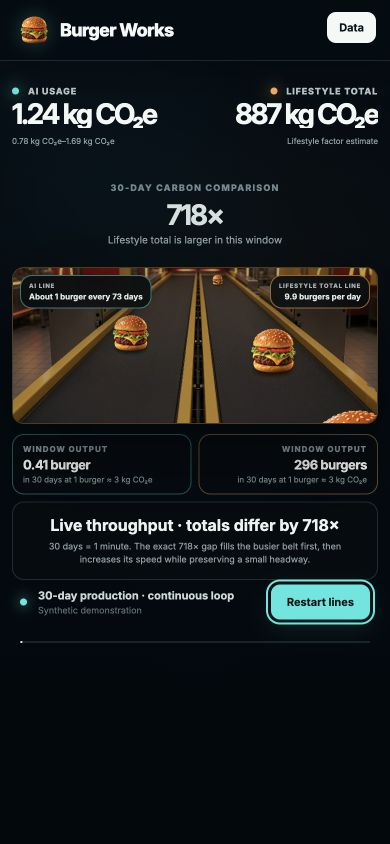
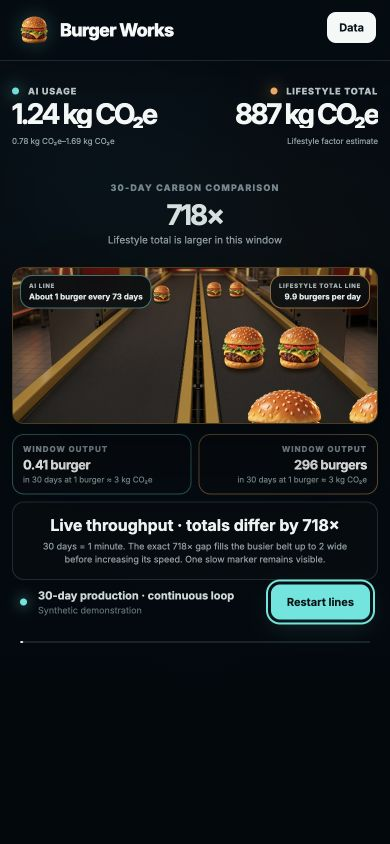
feat: pack conveyor burgers into aligned rows

Changed region(s): [[0.5231, 0.3081, 0.9846, 0.5237], [0.1538, 0.6161, 0.8923, 0.6777], [0.2769, 0.3389, 0.4308, 0.4313]]

diff --git a/src/main.ts b/src/main.ts
@@ -111,7 +111,7 @@ app.innerHTML = `
 
       <section class="output-strip" aria-label="Production totals and visual explanation">
         <article class="output-card output-card--left"><span>Window output</span><strong id="left-unit-count">—</strong><small id="left-unit-name">burger equivalent</small></article>
-        <div class="output-story"><strong id="stage-status" aria-live="polite">Live production · rate loop ready</strong><p id="motion-note">One comparison window plays in one minute. Output fills each belt first, then increases its speed.</p></div>
+        <div class="output-story"><strong id="stage-status" aria-live="polite">Live production · rate loop ready</strong><p id="motion-note">One comparison window plays in one minute. Output fills rows across each belt before increasing its speed.</p></div>
         <article class="output-card output-card--right"><span>Window output</span><strong id="right-unit-count">—</strong><small id="right-unit-name">burger equivalent</small></article>
       </section>
 
@@ -183,7 +183,7 @@ app.innerHTML = `
       <div><dt>AI carbon</dt><dd>Estimated Wh × selected grid carbon intensity. Input tokens are displayed but not modeled by the source data.</dd></div>
       <div><dt>Lifestyle</dt><dd>Diet, gasoline driving, flights, and home energy are normalized to the same comparison window.</dd></div>
       <div><dt>Burger unit</dt><dd>1 burger ≈ ${BURGER_KG_CO2E} kg CO₂e. This is a communication equivalence, not a claim that every burger is identical.</dd></div>
-      <div><dt>Visual scale</dt><dd>One comparison window plays in one minute. Exact output sets launch cadence; each belt stays at the one-minute base speed until safe burger density is full, then accelerates only as much as needed. A planar projective transform makes distant motion slower and foreground motion faster.</dd></div>
+      <div><dt>Visual scale</dt><dd>One comparison window plays in one minute. Exact output fills perspective-aware rows—up to three burgers across on desktop—before belt speed rises. A persistent slow marker keeps sub-one-burger output visible; numeric totals remain authoritative. A planar projective transform makes distant motion slower and foreground motion faster.</dd></div>
       <div><dt>Excluded</dt><dd>Water, training, image generation, retries, and regional goods/services baselines.</dd></div>
     </dl>
     <a class="source-link" href="${MASLEY_SOURCE.url}" target="_blank" rel="noreferrer">Open Masley factor source</a>
@@ -288,6 +288,7 @@ let replayStartedAt = 0;
 let hasPlayedInitialReplay = false;
 
 interface ConveyorBurger {
+  columnOffset: number;
   element: HTMLImageElement;
   side: BeltSide;
   bornAt: number;
@@ -297,6 +298,8 @@ interface ConveyorBurger {
 interface ConveyorLane {
   side: BeltSide;
   accent: 'ai' | 'life';
+  columnCount: number;
+  continuousMarker: boolean;
   intervalMs: number;
   travelDurationMs: number;
   capacity: number;
@@ -309,6 +312,16 @@ let burgerSequence = 0;
 
 function laneCapacityForStage(): number {
   return stage.clientWidth <= 760 ? 3 : MAX_BURGERS_ON_LANE;
+}
+
+function maxColumnsForStage(): number {
+  return stage.clientWidth <= 760 ? 2 : 3;
+}
+
+function columnOffsetForIndex(index: number, columnCount: number): number {
+  if (columnCount <= 1) return 0;
+  if (columnCount === 2) return index % 2 === 0 ? -1 : 1;
+  return [-1, 0, 1][index % 3] ?? 0;
 }
 
 function selectedScenario() {
@@ -455,12 +468,18 @@ function renderComparison(state: AppState): void {
     byId('ratio-description').textContent = `${larger} is larger in this window`;
     byId('stage-status').textContent = `Live throughput · totals differ by ${formatRatio(ratio)}`;
   }
-  const leftTiming = laneMotionTiming(sides.left.kgCo2e / BURGER_KG_CO2E, laneCapacityForStage());
-  const rightTiming = laneMotionTiming(sides.right.kgCo2e / BURGER_KG_CO2E, laneCapacityForStage());
+  const laneCapacity = laneCapacityForStage();
+  const maxColumns = maxColumnsForStage();
+  const leftTiming = laneMotionTiming(sides.left.kgCo2e / BURGER_KG_CO2E, laneCapacity, maxColumns);
+  const rightTiming = laneMotionTiming(sides.right.kgCo2e / BURGER_KG_CO2E, laneCapacity, maxColumns);
   if (leftTiming && rightTiming && Number.isFinite(ratio)) {
-    byId('motion-note').textContent = `${state.result.comparisonDays} days = 1 minute. The exact ${formatRatio(ratio)} gap fills the busier belt first, then increases its speed while preserving a small headway.`;
+    const busyTiming = sides.left.kgCo2e >= sides.right.kgCo2e ? leftTiming : rightTiming;
+    const markerNote = leftTiming.continuousMarker || rightTiming.continuousMarker
+      ? ' One slow marker remains visible.'
+      : '';
+    byId('motion-note').textContent = `${state.result.comparisonDays} days = 1 minute. The exact ${formatRatio(ratio)} gap fills the busier belt up to ${busyTiming.columnCount} wide before increasing its speed.${markerNote}`;
   } else {
-    byId('motion-note').textContent = `${state.result.comparisonDays} days = 1 minute. Output fills each belt first, then increases its speed.`;
+    byId('motion-note').textContent = `${state.result.comparisonDays} days = 1 minute. Output fills rows across each belt before increasing its speed.`;
   }
   byId('window-label').textContent = `${state.result.comparisonDays}-day carbon comparison`;
   byId('replay-window').textContent = `${state.result.comparisonDays}-day production · continuous loop`;
@@ -497,6 +516,7 @@ function createBurger(
   accent: 'ai' | 'life',
   bornAt: number,
   travelDurationMs: number,
+  columnOffset: number,
 ): ConveyorBurger {
   const item = document.createElement('img');
   item.className = `stream-item stream-item--${side}`;
@@ -505,7 +525,7 @@ function createBurger(
   item.src = `${ASSET_BASE}/burger.png`;
   item.alt = '';
   flowLayer.append(item);
-  const burger = { element: item, side, bornAt, travelDurationMs };
+  const burger = { columnOffset, element: item, side, bornAt, travelDurationMs };
   conveyorBurgers.push(burger);
   return burger;
 }
@@ -515,8 +535,16 @@ function renderConveyor(now: number, keepRunning = true): void {
     let catchUp = 0;
     while (now >= lane.nextSpawnAt && catchUp < lane.capacity) {
       const activeOnLane = conveyorBurgers.filter((burger) => burger.side === lane.side).length;
-      if (activeOnLane < lane.capacity) {
-        createBurger(lane.side, lane.accent, lane.nextSpawnAt, lane.travelDurationMs);
+      if (activeOnLane <= lane.capacity - lane.columnCount) {
+        for (let column = 0; column < lane.columnCount; column += 1) {
+          createBurger(
+            lane.side,
+            lane.accent,
+            lane.nextSpawnAt,
+            lane.travelDurationMs,
+            columnOffsetForIndex(column, lane.columnCount),
+          );
+        }
       }
       lane.nextSpawnAt += lane.intervalMs;
       catchUp += 1;
@@ -530,7 +558,7 @@ function renderConveyor(now: number, keepRunning = true): void {
       burger.element.remove();
       continue;
     }
-    const pose = projectBeltPose(worldProgress, burger.side);
+    const pose = projectBeltPose(worldProgress, burger.side, burger.columnOffset);
     burger.element.style.left = `${pose.leftPct}%`;
     burger.element.style.top = `${pose.topPct}%`;
     burger.element.style.opacity = String(pose.opacity);
@@ -539,6 +567,12 @@ function renderConveyor(now: number, keepRunning = true): void {
     active.push(burger);
   }
   conveyorBurgers = active;
+
+  for (const lane of conveyorLanes) {
+    if (lane.continuousMarker && !conveyorBurgers.some((burger) => burger.side === lane.side)) {
+      createBurger(lane.side, lane.accent, now, lane.travelDurationMs, 0);
+    }
+  }
 
   const loopProgress = ((now - replayStartedAt) % RATE_LOOP_DURATION_MS) / RATE_LOOP_DURATION_MS;
   timelineFill.style.transform = `scaleX(${loopProgress})`;
@@ -559,24 +593,45 @@ function startReplay(): void {
 
   const schedule = (side: 'left' | 'right', data: SideData) => {
     const laneCapacity = laneCapacityForStage();
-    const timing = laneMotionTiming(data.kgCo2e / BURGER_KG_CO2E, laneCapacity);
+    const timing = laneMotionTiming(
+      data.kgCo2e / BURGER_KG_CO2E,
+      laneCapacity,
+      maxColumnsForStage(),
+    );
     if (!timing) return;
     const duration = timing.travelDurationMs;
-    const interval = timing.intervalMs;
-    const visibleItems = clamp(Math.ceil(duration / interval), 1, laneCapacity);
+    const interval = timing.continuousMarker
+      ? duration
+      : timing.intervalMs * timing.columnCount;
+    const totalCapacity = timing.continuousMarker ? 1 : timing.totalCapacity;
+    const visibleRows = timing.continuousMarker
+      ? 1
+      : clamp(Math.ceil(duration / interval), 1, laneCapacity);
     const seedOffset = Math.min(interval * 0.2, duration * 0.45);
-    for (let index = 0; index < visibleItems; index += 1) {
-      const age = seedOffset + index * interval;
+    for (let row = 0; row < visibleRows; row += 1) {
+      const age = seedOffset + row * interval;
       if (age >= duration) break;
-      createBurger(side, data.className, now - age, duration);
+      for (let column = 0; column < timing.columnCount; column += 1) {
+        createBurger(
+          side,
+          data.className,
+          now - age,
+          duration,
+          columnOffsetForIndex(column, timing.columnCount),
+        );
+      }
     }
     conveyorLanes.push({
       side,
       accent: data.className,
+      columnCount: timing.columnCount,
+      continuousMarker: timing.continuousMarker,
       intervalMs: interval,
       travelDurationMs: duration,
-      capacity: laneCapacity,
-      nextSpawnAt: now + Math.max(16, interval - seedOffset),
+      capacity: totalCapacity,
+      nextSpawnAt: timing.continuousMarker
+        ? Number.POSITIVE_INFINITY
+        : now + Math.max(16, interval - seedOffset),
     });
   };
   schedule('left', sides.left);

diff --git a/src/scene/conveyorPhysics.ts b/src/scene/conveyorPhysics.ts
@@ -23,6 +23,10 @@ const EXIT_RIGHT_X = 94.1565217391;
 const BELT_PLANE_END = 0.8;
 const WINDOW_PLAYBACK_DURATION_MS = 60_000;
 const MIN_TRAVEL_DURATION_MS = 450;
+const HEADWAY_MARGIN = 0.2;
+const FAR_COLUMN_SPREAD = 1.2;
+const NEAR_COLUMN_SPREAD = 12;
+const EXIT_COLUMN_SPREAD = 16;
 
 function clamp01(value: number): number {
   return Math.min(1, Math.max(0, value));
@@ -46,7 +50,11 @@ export function projectWorldProgress(
   return world / (1 + perspective * (1 - world));
 }
 
-export function projectBeltPose(worldProgress: number, side: BeltSide): BeltPose {
+export function projectBeltPose(
+  worldProgress: number,
+  side: BeltSide,
+  columnOffset = 0,
+): BeltPose {
   const world = clamp01(worldProgress);
   const onBelt = world <= BELT_PLANE_END;
   const beltWorld = clamp01(world / BELT_PLANE_END);
@@ -54,9 +62,13 @@ export function projectBeltPose(worldProgress: number, side: BeltSide): BeltPose
   const exitProgress = clamp01((world - BELT_PLANE_END) / (1 - BELT_PLANE_END));
   const nearX = side === 'left' ? NEAR_LEFT_X : NEAR_RIGHT_X;
   const exitX = side === 'left' ? EXIT_LEFT_X : EXIT_RIGHT_X;
-  const leftPct = onBelt
+  const centerLeftPct = onBelt
     ? mix(side === 'left' ? FAR_LEFT_X : FAR_RIGHT_X, nearX, beltDepth)
     : mix(nearX, exitX, exitProgress);
+  const columnSpread = onBelt
+    ? mix(FAR_COLUMN_SPREAD, NEAR_COLUMN_SPREAD, beltDepth)
+    : mix(NEAR_COLUMN_SPREAD, EXIT_COLUMN_SPREAD, exitProgress);
+  const leftPct = centerLeftPct + columnOffset * columnSpread;
   const topPct = onBelt
     ? mix(FAR_CONTACT_Y, NEAR_CONTACT_Y, beltDepth)
     : mix(NEAR_CONTACT_Y, EXIT_CONTACT_Y, exitProgress);
@@ -75,7 +87,10 @@ export function projectBeltPose(worldProgress: number, side: BeltSide): BeltPose
 }
 
 export interface LaneMotionTiming {
+  columnCount: number;
+  continuousMarker: boolean;
   intervalMs: number;
+  totalCapacity: number;
   travelDurationMs: number;
   visualRatePerSecond: number;
 }
@@ -87,17 +102,31 @@ export interface LaneMotionTiming {
  */
 export function laneMotionTiming(
   burgersInWindow: number,
-  laneCapacity: number,
+  rowCapacity: number,
+  maxColumns = 3,
 ): LaneMotionTiming | null {
   if (!Number.isFinite(burgersInWindow) || burgersInWindow < 0.005) return null;
-  const safeCapacity = Math.max(1, laneCapacity);
+  const safeRowCapacity = Math.max(1, rowCapacity);
+  const safeMaxColumns = Math.max(1, Math.min(3, Math.floor(maxColumns)));
+  const columnCount = Math.min(
+    safeMaxColumns,
+    Math.max(1, Math.ceil(burgersInWindow / safeRowCapacity)),
+  );
   const visualRatePerSecond = burgersInWindow / (WINDOW_PLAYBACK_DURATION_MS / 1_000);
   const intervalMs = Math.max(16, Math.round(1_000 / visualRatePerSecond));
-  const headwayDurationMs = intervalMs * Math.max(1, safeCapacity - 0.75);
+  const perColumnIntervalMs = intervalMs * columnCount;
+  const headwayDurationMs = perColumnIntervalMs * Math.max(1, safeRowCapacity - HEADWAY_MARGIN);
   const travelDurationMs = Math.round(Math.max(
     MIN_TRAVEL_DURATION_MS,
     Math.min(WINDOW_PLAYBACK_DURATION_MS, headwayDurationMs),
   ));
 
-  return { intervalMs, travelDurationMs, visualRatePerSecond };
+  return {
+    columnCount,
+    continuousMarker: burgersInWindow < 1,
+    intervalMs,
+    totalCapacity: safeRowCapacity * columnCount,
+    travelDurationMs,
+    visualRatePerSecond,
+  };
 }

diff --git a/src/scene/conveyorPhysics.test.ts b/src/scene/conveyorPhysics.test.ts
@@ -46,6 +46,18 @@ describe('conveyor physics', () => {
     expect(exitSlope).toBeCloseTo(beltSlope, 4);
   });
 
+  it('fans multiple columns out from the same vanishing point', () => {
+    const farInner = projectBeltPose(0, 'right', -1);
+    const farOuter = projectBeltPose(0, 'right', 1);
+    const nearInner = projectBeltPose(0.8, 'right', -1);
+    const nearCenter = projectBeltPose(0.8, 'right', 0);
+    const nearOuter = projectBeltPose(0.8, 'right', 1);
+
+    expect(farOuter.leftPct - farInner.leftPct).toBeCloseTo(2.4, 5);
+    expect(nearCenter.leftPct - nearInner.leftPct).toBeCloseTo(12, 5);
+    expect(nearOuter.leftPct - nearCenter.leftPct).toBeCloseTo(12, 5);
+  });
+
   it('keeps burgers opaque and carries them fully below the frame', () => {
     const far = projectBeltPose(0, 'left');
     const edge = projectBeltPose(0.8, 'left');
@@ -60,20 +72,32 @@ describe('conveyor physics', () => {
   });
 
   it('fills density before increasing belt velocity for extreme rate gaps', () => {
-    const ai = laneMotionTiming(1.24 / 3, 6)!;
-    const lifestyle = laneMotionTiming(887 / 3, 6)!;
+    const ai = laneMotionTiming(1.24 / 3, 6, 3)!;
+    const lifestyle = laneMotionTiming(887 / 3, 6, 3)!;
 
     expect(ai.intervalMs / lifestyle.intervalMs).toBeGreaterThan(700);
+    expect(ai.columnCount).toBe(1);
+    expect(ai.continuousMarker).toBe(true);
     expect(ai.travelDurationMs).toBe(60_000);
-    expect(lifestyle.travelDurationMs).toBeGreaterThanOrEqual(1_050);
-    expect(lifestyle.travelDurationMs).toBeLessThanOrEqual(1_080);
-    expect(ai.travelDurationMs / lifestyle.travelDurationMs).toBeGreaterThan(55);
+    expect(lifestyle.columnCount).toBe(3);
+    expect(lifestyle.totalCapacity).toBe(18);
+    expect(lifestyle.travelDurationMs).toBeGreaterThanOrEqual(3_500);
+    expect(lifestyle.travelDurationMs).toBeLessThanOrEqual(3_560);
+    expect(ai.travelDurationMs / lifestyle.travelDurationMs).toBeGreaterThan(16);
+  });
+
+  it('uses multiple columns at the base speed before accelerating', () => {
+    const medium = laneMotionTiming(10, 6, 3)!;
+    expect(medium.columnCount).toBe(2);
+    expect(medium.travelDurationMs).toBe(60_000);
   });
 
   it('preserves compact headway and the below-threshold state', () => {
-    const compact = laneMotionTiming(887 / 3, 3)!;
-    expect(compact.travelDurationMs).toBeGreaterThanOrEqual(450);
-    expect(compact.travelDurationMs).toBeLessThanOrEqual(470);
+    const compact = laneMotionTiming(887 / 3, 3, 2)!;
+    expect(compact.columnCount).toBe(2);
+    expect(compact.totalCapacity).toBe(6);
+    expect(compact.travelDurationMs).toBeGreaterThanOrEqual(1_100);
+    expect(compact.travelDurationMs).toBeLessThanOrEqual(1_160);
     expect(laneMotionTiming(0.004, 3)).toBeNull();
   });
 });

diff --git a/design-qa.md b/design-qa.md
@@ -23,10 +23,10 @@
 - Pass — both burger paths follow the straight belt centerlines from the vanishing point to the foreground. Burger scale growth matches the source perspective and the foreground crops naturally at the stage edge.
 - Pass — the intentional product-state difference from the filled source is clear: identical burgers remain sparse on the AI line and dense on the lifestyle line, so throughput rather than decoration becomes the comparison.
 - Pass — every burger advances linearly in lane time, then one fractional-linear planar projection derives its angled screen x, contact y, apparent scale, and depth order. Distant screen motion is slower and the same belt velocity accelerates visibly toward the camera.
-- Pass — one selected comparison window maps to one playback minute. Exact output sets launch cadence; each belt remains at the 60-second base traversal while density is available, then accelerates only enough to preserve physical headway. In the typical 718× state, the AI lane takes 60 seconds to traverse while the full lifestyle lane takes about 1.07 seconds.
-- Pass — tracked lifestyle motion increased from about 593 px/s in the distance to 972 px/s during the foreground exit. Every one of 58 samples remained at opacity 1; the final tracked bounding box began at y=636 px, fully below the 535 px stage bottom, before removal.
+- Pass — one selected comparison window maps to one playback minute. Exact output sets launch cadence; each belt fills aligned rows across its width before accelerating. In the typical 718× state, the persistent AI marker takes 60 seconds to traverse while the three-wide lifestyle rows take about 3.53 seconds.
+- Pass — tracked lifestyle motion increased from about 174 px/s in the distance to 299 px/s during the foreground exit. All 172 samples remained at opacity 1; the final tracked bounding box began at y=601 px, fully below the 535 px stage bottom, before removal.
 - Pass — the user-supplied white-line reference calibrated the straight lane centers: 46.8%/53.2% at the vanishing point, 16.8%/83.2% at the foreground edge, with a collinear continuation until the sprites clear the bottom.
-- Pass — burger bottoms, rather than sprite centers, are anchored to the plane. The populated desktop line carries five to six active burgers, with a measured minimum full-bounding-box clearance of 26.7 px; compact capacity drops to three and retained at least 25.0 px.
+- Pass — burger bottoms, rather than sprite centers, are anchored to the plane. The populated desktop line carries six aligned rows of three, with 15–18 burgers visible and a measured minimum full-bounding-box clearance of 6.9 px across 2.4 seconds with zero intersections. Compact rows run two-wide and retained 2.4 px with zero intersections.
 - Pass — pace labels sit outside both motion paths. Exact burger-equivalent totals and the one-minute density-first explanation sit below the stage, keeping belt exits unobstructed.
 - Pass — the 1280 × 900 page maintains the existing Burger Works hierarchy: exact carbon values first, moving production second, compact controls third.
 
@@ -36,14 +36,14 @@
 - Spacing and layout rhythm: passed. The 2128:912 stage ratio matches both sources; labels clear the lanes; the new output strip aligns to the stage and the replay controls remain visually secondary.
 - Colors and visual tokens: passed. The source's warm yellow/red industrial palette remains visible while the existing cyan/amber semantic accents identify AI and lifestyle without recoloring the supplied image.
 - Image quality and asset fidelity: passed. The source background is used at its native composition; the existing transparent burger asset is sharp, halo-free, and perspective-scaled. No placeholder, CSS-drawn, SVG-drawn, or emoji assets are present.
-- Copy and content: passed. The typical state states “30 days = 1 minute,” preserves the exact 718× output cadence, and explains that the busier lane fills its available density before belt speed rises. Near-zero totals use “Below visual threshold” instead of fabricating an implausibly long production interval.
+- Copy and content: passed. The typical state states “30 days = 1 minute,” preserves the exact 718× output cadence, explains that the busier lane fills up to three-wide before belt speed rises, and identifies the persistent slow marker. Numeric totals remain authoritative. Near-zero totals use “Below visual threshold.”
 - Icons and controls: passed. Existing supplied brand image and established text controls are retained; disabled Energy and Water modes remain clearly marked “soon.”
 - Accessibility: passed for this iteration. Semantic buttons/dialogs/labels remain keyboard reachable, alt text describes the conveyor image, reduced-motion rules remain present, and text contrast remains legible over dark panels.
 
 ## Responsive and interaction QA
 
-- 390 × 844: passed with document `scrollWidth` equal to 390 px. The compact line caps at three burgers; 1.1 seconds of timed sampling retained 25.0 px of full-bounding-box clearance while two to three burgers remained visibly in frame.
-- Live desktop-to-compact resize: passed without reload. The `ResizeObserver` changed the populated-line capacity from six to three, then restored six at desktop width.
+- 390 × 844: passed with document `scrollWidth` equal to 390 px. The compact line carries up to three aligned rows of two; 1.8 seconds of timed sampling retained 2.4 px of full-bounding-box clearance with zero intersections while four to six burgers remained visibly in frame.
+- Live desktop-to-compact resize: passed without reload. The `ResizeObserver` changed the populated-line capacity from eighteen three-wide burgers to six two-wide burgers, then restored the desktop arrangement.
 - Big/big stress state: passed at 816 kg versus 887 kg CO₂e. Mirrored lanes use the same projective path; their close rates produce correspondingly close cadences and belt velocities.
 - Small/idle threshold state: passed at effectively 0 g versus 0 g. Both lanes remain empty, the comparison reads “Both totals are below the visual threshold,” and no phantom burger is seeded.
 - Swap: passed; entity labels, colors, values, and production rates exchange lanes.
@@ -51,7 +51,7 @@
 - Synthetic scenario change: passed; light and typical states update values and restart the lines.
 - Lifestyle component selection: passed; diet changes the right value and pace, then total restores the full comparison.
 - Profile input change/reset: passed; driving changes the right pace immediately and restart logic uses the new rate.
-- Restart lines: passed; the typical state immediately seeds one sparse AI burger and up to six separated lifestyle burgers on desktop (three on compact screens) before continuous cadence resumes.
+- Restart lines: passed; the typical state immediately seeds one slow AI marker and six aligned rows of three lifestyle burgers on desktop (three rows of two on compact screens) before continuous cadence resumes.
 - Swap: passed; populated and sparse lane cadence, speed, labels, and values exchange sides while the projective path remains mirrored.
 - Chrome parity: pending refresh after the exact-rate and white-line path pass.
 - Console warnings/errors: none.
@@ -61,7 +61,7 @@
 - First normalized pass: no actionable P0/P1/P2 mismatch. The source and implementation were compared together at 1203 × 516 px. The unequal burger density and UI labels are intentional product behavior, not fidelity drift.
 - Motion correction pass — P1 resolved. The supplied 1660 px reference showed rate-dependent belt timing and foreground burger overlap. The implementation now uses one fixed travel duration, a perspective-compensated screen path, a lower sparse-rate floor, and responsive capacity spacing. Two timed post-fix captures at 1660 × 1094 show the burgers progressing without bunching; the 390 × 844 capture confirms the compact cap.
 - Shared-clock physics pass — P1 resolved. Independent Web Animations could not guarantee a single physical belt or frame-rate-independent headway. They were replaced by one requestAnimationFrame simulation with absolute birth times, fixed world speed, projective camera mapping, perceptual velocity compensation, bottom-contact anchoring, responsive lane capacity, and deterministic catch-up. Typical, big/big, compact, and below-threshold browser states all passed with no console warnings or errors.
-- Rate-and-velocity pass — P1 resolved. Density-only compression reduced the typical 718× comparison to roughly four visible positions and flattened perspective velocity. The current model maps the full window to one minute, preserves exact launch cadence, fills safe density first, accelerates only the saturated lane, follows the user-marked straight centerlines with an uncompensated projective path, and retains full opacity through off-screen exit.
+- Rate-and-velocity pass — P1 resolved. Density-only compression reduced the typical 718× comparison to roughly four visible positions and flattened perspective velocity. The current model maps the full window to one minute, preserves exact average launch cadence, fills synchronized two- or three-wide rows before accelerating the saturated lane, keeps one slow marker visible, follows the user-marked perspective paths, and retains full opacity through off-screen exit.
 - Focused-region comparison used the full conveyor stage at 1660 px wide because motion path, apparent speed, size growth, and center-to-center spacing are all readable there. The full-page capture separately verifies surrounding typography and layout.
 
 ## Follow-up polish

diff --git a/README.md b/README.md
@@ -18,7 +18,8 @@ Open `http://127.0.0.1:5174/`.
 - Masley / EcoLogits model-curve interpolation with central and 95% range estimates
 - Diet, driving, flights, and home-energy lifestyle comparisons over matched time windows
 - Straight, perspective-matched twin conveyors with identical burgers; a projective belt-plane transform makes distant motion slower and foreground motion faster, while exact one-minute cadence and density-first lane velocity turn extreme CO₂ gaps into visibly different production lines
-- Responsive physical headway: up to six burgers on the desktop line and three on compact screens, with burgers fully opaque until they run beyond the bottom edge
+- Responsive physical headway: up to six three-wide rows on desktop and three two-wide rows on compact screens, with burgers fully opaque until they run beyond the bottom edge
+- A persistent slow-lane marker keeps sub-one-burger output visible without changing the authoritative numeric total
 - Immediate steady-state line density plus exact burger-equivalent output for the selected window
 - Replay-loop restart, side swap, methodology, profile controls, and local persistence for real CSV imports; synthetic demos reset consistently in every browser
 - Responsive desktop and mobile layouts
